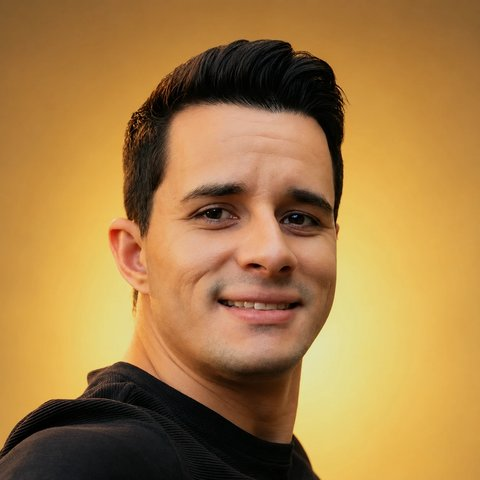
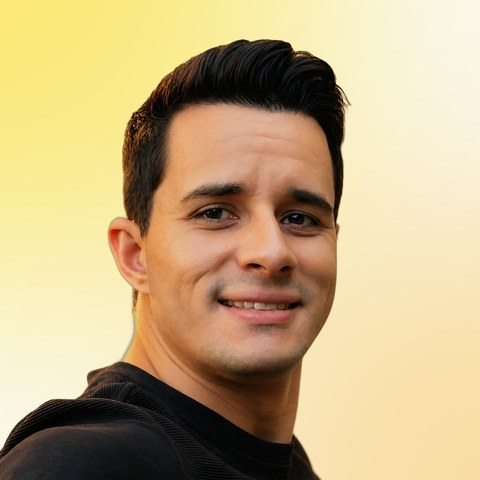
Aplica novo design: visual minimalista com blur, fotos por tema e melhorias no Início e no Mídia Kit

diff --git a/index.html b/index.html
@@ -14,6 +14,8 @@
 <link rel="apple-touch-icon" href="img/apple-touch-icon.png">
 <meta name="theme-color" content="#060404">
 <link rel="stylesheet" href="css/style.css?v=18">
+<link rel="stylesheet" href="css/mini3.css?v=1">
+<link rel="stylesheet" href="css/melhorias.css?v=1">
 <script>try{if(localStorage.getItem("eb-theme")==="dark")document.documentElement.setAttribute("data-theme","dark");}catch(e){}</script>
 </head>
 <body>
@@ -110,7 +112,8 @@
 </main>
 
 <script type="application/json" id="fallback">{"generatedAt": "2026-11-02T04:10:00Z", "periodFrom": "2026-08-04", "periodTo": "2026-11-02", "totals": {"followers": 22543, "views90d": 2884359}, "tiktok": {"followers": 18560, "totalLikes": 144309, "posts": 89, "views": 2614908, "median": 5762, "mean": 29381, "er": 0.03797, "over100k": 8, "likes": 82375, "comments": 2901, "shares": 14025}, "instagram": {"followers": 3446, "mediaCount": 94, "posts": 68, "views": 175288, "median": 1798, "mean": 2578, "er": 0.03919, "saves": 2098, "reach30d": 29151}, "youtube": {"followers": 537, "netSubs90d": 267, "videos": 82, "views": 94163, "median": 1464, "mean": 1724, "er": 0.02937, "watchHours": 644}, "audience": {"male": {"tiktok": 0.74, "instagram": 0.716, "youtube": 0.786}, "age25_54": {"tiktok": 0.826, "instagram": 0.727, "youtube": 0.674}, "brazil": {"tiktok": 0.822, "instagram": 0.949, "youtube": 0.98}, "ages": {"tiktok": [0, 0.075, 0.242, 0.338, 0.246, 0.099], "instagram": [0.034, 0.053, 0.201, 0.285, 0.241, 0.188], "youtube": [0.192, 0.088, 0.271, 0.252, 0.151, 0.045]}}, "top": {"tiktok": [{"pt": "2 configurações do Motorola que gastam bateria à toa", "en": "2 Motorola settings that quietly drain your battery", "url": "https://www.tiktok.com/@eduardobastiertech/video/7679252136894467349", "views": 228872}, {"pt": "3 coisas secretas para ativar no Motorola", "en": "3 secret things to turn on in your Motorola", "url": "https://www.tiktok.com/@eduardobastiertech/video/7669963648919440661", "views": 211866}, {"pt": "Esconder apps de banco com a Pasta Segura do Moto", "en": "Hide banking apps with Moto's Secure Folder", "url": "https://www.tiktok.com/@eduardobastiertech/video/7670321926644059413", "views": 185355}, {"pt": "Baixar vídeo do TikTok sem marca d'água (TikTokIO)", "en": "Download TikTok videos without a watermark (TikTokIO)", "url": "https://www.tiktok.com/@eduardobastiertech/video/7685499006809771284", "views": 170604, "shares": 2699, "sponsored": true}], "instagram": [{"pt": "Prompts do ChatGPT para imagens sem cara de IA", "en": "ChatGPT prompts for images that don't look like AI", "url": "https://www.instagram.com/reel/DdtTefLh-nN/", "views": 12109, "saves": 315}, {"pt": "Som ambiente: o celular vira aparelho auditivo", "en": "Ambient sound: your phone as a hearing aid", "url": "https://www.instagram.com/reel/DcKHO9GsYoD/", "views": 10560, "saves": 220}, {"pt": "Códigos secretos do ChatGPT para fotos, parte 2", "en": "Secret ChatGPT photo-editing codes, part 2", "url": "https://www.instagram.com/reel/DdC1P0UQElz/", "views": 9520}, {"pt": "Melhores ajustes da câmera do Samsung", "en": "Best Samsung camera settings", "url": "https://www.instagram.com/reel/Ddqup_lhJHz/", "views": 8806, "saves": 189}], "youtube": [{"pt": "Esconda seus apps de banco no Motorola (Pasta Segura)", "en": "Hide your banking apps on Motorola (Secure Folder)", "url": "https://www.youtube.com/watch?v=OuvHzWsNPzo", "views": 8428}, {"pt": "Segredos da One UI 9 que a Samsung não te contou", "en": "One UI 9 secrets Samsung didn't tell you", "url": "https://www.youtube.com/watch?v=s-ms14feCLU", "views": 5606}, {"pt": "Bloqueie apps específicos com senha no Motorola", "en": "Lock specific apps with a password on Motorola", "url": "https://www.youtube.com/watch?v=uVKH4MTG-4Y", "views": 4070}, {"pt": "O código secreto do ChatGPT para imagens", "en": "The secret ChatGPT code for images", "url": "https://www.youtube.com/watch?v=Njj1RR3fpyU", "views": 3974}]}, "profile": {"photo": "img/foto.jpg", "milestone": {"pt": "10 mil seguidores no TikTok em 3 meses, só no orgânico", "en": "10K TikTok followers in 3 months, all organic"}}, "caseStudy": {"brand": "TikTokIO", "url": "https://www.tiktok.com/@eduardobastiertech/video/7685499006809771284", "goal": {"pt": "Divulgar um site para baixar vídeos do TikTok sem marca d'água.", "en": "Promote a website for downloading TikTok videos without a watermark."}, "delivery": {"pt": "1 vídeo no TikTok mostrando o passo a passo no celular.", "en": "1 TikTok video showing the step-by-step on a phone."}, "views": 170604, "reach": 116858, "likes": 4714, "comments": 138, "shares": 2699}, "packages": [{"pt": "Publi", "en": "Sponsored post", "dpt": "Post patrocinado no feed, Reels ou TikTok, com o produto dentro do meu formato de dicas.", "den": "A sponsored feed post, Reel or TikTok, with the product inside my usual tips format.", "platforms": ["TikTok", "Instagram"], "priceFrom": null}, {"pt": "Stories patrocinados", "en": "Sponsored stories", "dpt": "Sequência de 3 a 5 stories com link ou cupom. Ideal para lançamentos e promoções.", "den": "A sequence of 3 to 5 stories with a link or coupon. Great for launches and promotions.", "platforms": ["Instagram"], "priceFrom": null}, {"pt": "Vídeo dedicado", "en": "Dedicated video", "dpt": "Um vídeo curto inteiro sobre o produto, mostrando o uso no dia a dia.", "den": "A full short video about the product, showing it in everyday use.", "platforms": ["TikTok", "Reels", "Shorts"], "priceFrom": null}, {"pt": "Collab", "en": "Collab", "dpt": "Post publicado junto com a marca, aparecendo nos dois perfis e somando o alcance.", "den": "A post published together with the brand, shown on both profiles to combine reach.", "platforms": ["Instagram", "TikTok"], "priceFrom": null}, {"pt": "Vídeo longo", "en": "Long-form video", "dpt": "Review ou unboxing no YouTube, com testes e opinião sincera.", "den": "A YouTube review or unboxing, with tests and an honest opinion.", "platforms": ["YouTube"], "priceFrom": null}], "terms": {"responseHours": null, "deliveryDays": null}, "testimonials": [], "extras": [{"pt": "Pacote nas 3 redes", "en": "3-platform bundle"}, {"pt": "Licença para anúncios (Spark Ads / parceria paga)", "en": "Ad usage license (Spark Ads / paid partnership)"}]}</script>
-<script src="js/app.js?v=17" defer></script>
+<script src="js/app.js?v=19" defer></script>
 
+<script src="js/melhorias.js?v=1"></script>
 </body>
 </html>

diff --git a/css/mini3.css b/css/mini3.css
@@ -1,0 +1,57 @@
+/* Visual do mockup mini3 aplicado ao site atual. Só CSS: o HTML não muda. */
+@import url("https://fonts.googleapis.com/css2?family=Geist:wght@400;500;600&display=swap");
+:root{--bg:#FAFAF9;--surface:#FFFFFF;--ink:#0A0A0A;--muted:#737373;--line:#EAEAE8;--track:#EFEFEC;--accent:#0A0A0A;--hl:#FBD905;--bar:#F7B835;
+ --f-display:"Geist",sans-serif;--f-body:"Geist",sans-serif;--f-mono:"Geist",sans-serif;--r:14px}
+:root[data-theme="dark"]{--bg:#0E0E0F;--surface:#151517;--ink:#EDEDEC;--muted:#8A8A8A;--line:#232325;--track:#232325;--accent:#EDEDEC}
+body{font-size:15px;-webkit-font-smoothing:antialiased;
+ background:radial-gradient(min(720px,100vw) 380px at 50% -160px,color-mix(in srgb,#FBD905 22%,transparent),transparent 70%) no-repeat,var(--bg)}
+:root[data-theme="dark"] body{background:radial-gradient(min(720px,100vw) 380px at 50% -160px,color-mix(in srgb,#FBD905 10%,transparent),transparent 70%) no-repeat,var(--bg)}
+h1,h2,h3{font-weight:600;letter-spacing:-.03em}
+.eyebrow,.handle,.t,.fmt-n,.mp-cap{text-transform:none!important;letter-spacing:0!important;font-weight:500}
+/* menu */
+.nav{background:color-mix(in srgb,var(--bg) 85%,transparent)!important;border-bottom:0!important}
+.menu{background:var(--surface);border:1px solid var(--line);border-radius:11px;padding:3px;gap:2px}
+.menu a{border-radius:8px!important;padding:5px 14px!important;font-size:13px!important}
+.seg-ctl{border-radius:11px!important;border-color:var(--line)!important}.seg-ctl button{border-radius:8px!important;font-family:var(--f-body)!important}
+.mbtn{border-color:var(--line)!important;border-radius:10px!important;background:var(--surface)!important}
+/* topo */
+.hero{border-bottom:0!important;padding-bottom:8px!important}
+.hero .avatar,.avatar{border:0!important;box-shadow:0 0 0 4px var(--bg),0 0 0 5px var(--line)}
+.name{font-weight:600!important;letter-spacing:-.04em!important}
+.name span{font-weight:400!important;color:var(--muted)}
+.pitch mark{background:none!important;color:var(--ink)!important;padding:0!important;font-weight:500}
+.pitch{color:var(--muted)}
+.mile{border:1px solid var(--line)!important;background:var(--surface);border-radius:10px;padding:6px 12px!important;color:var(--muted);font-size:13px!important}
+.big-n{font-weight:600!important;letter-spacing:-.04em!important}
+/* botões */
+.btn-solid,.btn-line,.btn,.btn-pdf{border-radius:10px!important;font-weight:500!important;font-family:var(--f-body)!important;box-shadow:none!important}
+.btn-solid{background:var(--ink)!important;color:var(--bg)!important;border:1px solid var(--ink)!important}
+.btn-line,.btn.ghost{background:var(--surface)!important;color:var(--ink)!important;border:1px solid var(--line)!important}
+/* seções: título pequeno com nota à direita */
+.sec{gap:12px!important}
+.sec-h{align-items:baseline!important;padding:0 4px}
+.sec-h h2{font-size:13px!important;font-weight:600;letter-spacing:0}
+.sec-note{font-size:13px!important}
+/* cards */
+.box{border-radius:var(--r)!important;border:1px solid var(--line)!important;background:var(--surface);box-shadow:none}
+.lk{padding:14px 16px!important}.lk .ic{width:36px!important;height:36px!important;border-radius:10px!important}.lk .ic svg{width:18px!important;height:18px!important}
+.lk h3{font-size:15px!important;font-weight:500}.lk .tx>span{font-size:13px!important}.lk .go{font-size:14px!important}
+.links{gap:10px!important}.socials{gap:10px!important}
+.soc .plat-h h3{font-size:15px;font-weight:500}.soc .plat-big{font-size:30px!important;font-weight:600!important}
+.soc .open{text-decoration-color:var(--line)!important;text-decoration-thickness:1px!important;font-size:13px!important}
+.lk:hover,.soc:hover{border-color:color-mix(in srgb,var(--ink) 25%,var(--line))!important}
+.study .badge{border-radius:10px!important;width:48px!important;height:48px!important;font-size:18px!important}
+.cta-mk{border-left:1px solid var(--line)!important}
+.case{border-left:1px solid var(--line)!important}
+.contact{background:var(--surface)!important;color:var(--ink)!important;border:1px solid var(--line);border-radius:var(--r)!important}
+.contact h2{font-size:clamp(24px,3vw,32px)!important}.contact p{color:var(--muted);opacity:1!important}
+.contact .btn{background:var(--ink)!important;color:var(--bg)!important;border:1px solid var(--ink)!important}
+.contact .btn.ghost{background:var(--surface)!important;color:var(--ink)!important;border-color:var(--line)!important}
+.contact .mail{color:var(--ink)}
+/* mídia kit */
+.plat-big{font-weight:600!important;letter-spacing:-.04em!important}
+.case-kpis b,.why b{font-weight:600!important}
+.trk,.fill,.segs{border-radius:999px!important}.fill{background:var(--bar)!important}
+.fmt-tags span{background:var(--surface)!important;border:1px solid var(--line);color:var(--muted)!important;font-family:var(--f-body)!important}
+.dot{background:#22c55e!important;box-shadow:none!important;animation:none!important}
+.chip,.chips span,.extras span{border-color:var(--line)!important;border-radius:8px!important;font-family:var(--f-body)!important}

diff --git a/css/melhorias.css b/css/melhorias.css
@@ -1,0 +1,30 @@
+/* 1. uma fonte */ body,*{font-family:"Geist",sans-serif!important}
+/* 3. topo: nome protagonista, número vira faixa */
+#view-home .hero{grid-template-columns:1.2fr 1fr!important;align-items:end!important}@media(max-width:860px){#view-home .hero{grid-template-columns:1fr!important}}
+#view-home .hero-side{align-items:flex-start!important;text-align:left!important;width:100%}
+#view-home .hero-stat{display:none!important}
+.strip{display:grid;grid-template-columns:repeat(3,1fr);border:1px solid var(--line);border-radius:14px;background:var(--surface);width:100%;}
+.strip div{padding:14px 18px}.strip div+div{border-left:1px solid var(--line)}
+.strip b{display:block;font-size:22px;font-weight:600;letter-spacing:-.03em}.strip small{color:var(--muted);font-size:13px}
+#view-home .hero-btns{justify-content:flex-start!important}
+#view-home .hero .name{font-size:clamp(36px,6vw,64px)!important}
+/* 4. grupos como linhas */
+.links{grid-template-columns:1fr!important;gap:0!important;border:1px solid var(--line);border-radius:14px;overflow:hidden;background:var(--surface)}
+.links .lk{border:0!important;border-radius:0!important}.links .lk+.lk{border-top:1px solid var(--line)!important}
+/* 5. início mais curto */
+#view-home>.sec:nth-of-type(3),#view-home>.sec:nth-of-type(4){display:none!important}
+/* 6. abas do mídia kit */
+.mk-tabs{position:sticky;top:64px;z-index:9;display:flex;gap:2px;background:var(--surface);border:1px solid var(--line);border-radius:11px;padding:3px;width:fit-content;max-width:100%;overflow-x:auto}
+.mk-tabs a{padding:6px 14px;border-radius:8px;font-size:13px;font-weight:500;color:var(--muted);text-decoration:none;white-space:nowrap}
+.mk-tabs a.on{background:var(--ink);color:var(--bg)}
+@media(max-width:600px){.strip b{font-size:18px}.strip div{padding:12px}}
+/* blur: manchas desfocadas no fundo + cards de vidro fosco */
+body::before,body::after{content:"";position:fixed;z-index:-1;border-radius:50%;filter:blur(90px);pointer-events:none}
+body::before{width:46vw;height:46vw;max-width:620px;max-height:620px;background:#FBD905;opacity:.35;top:-12vw;left:-10vw}
+body::after{width:40vw;height:40vw;max-width:540px;max-height:540px;background:#F7B835;opacity:.25;bottom:-10vw;right:-8vw}
+:root[data-theme="dark"] body::before{opacity:.14}:root[data-theme="dark"] body::after{opacity:.10}
+body{background:var(--bg)!important;isolation:isolate}
+.box,.links,.strip,.menu,.seg-ctl,.mk-tabs,.contact,.mile,.btn-line{background:color-mix(in srgb,var(--surface) 62%,transparent)!important;backdrop-filter:blur(18px) saturate(1.4);-webkit-backdrop-filter:blur(18px) saturate(1.4)}
+.links .lk{background:transparent!important;backdrop-filter:none}
+.nav{background:color-mix(in srgb,var(--bg) 55%,transparent)!important;backdrop-filter:blur(20px) saturate(1.5)!important}
+.brand img,.avatar.sm,.contact .avatar{border:0!important;box-shadow:0 0 0 2px var(--bg),0 0 0 3px var(--line)!important}:root:not([data-theme="dark"]) .brand img,:root:not([data-theme="dark"]) .contact .avatar{box-shadow:0 0 0 2px #fff,0 0 0 3px var(--line)!important}

diff --git a/js/app.js b/js/app.js
@@ -12,7 +12,7 @@ pt:{locale:"pt-BR",
  pkH:"Formatos de parceria",pkNote:"Escolha um formato ou combine vários. Valores sob consulta.",extrasL:"Extras",from:"a partir de",onReq:"sob consulta",
  resp:"Respondo em até {n} h",deliv:"Entrega em até {n} dias após receber o produto",
  testiH:"O que dizem as marcas",
-updated:"Dados ao vivo · atualizado {ago}",pdf:"Baixar em PDF",pdfBusy:"Gerando PDF…",pdfErr:"Não foi possível gerar o PDF",pdfOff:"Sem internet: tente de novo",light:"Claro",dark:"Escuro",
+updated:"Atualizado em 2 de novembro",pdf:"Baixar em PDF",pdfBusy:"Gerando PDF…",pdfErr:"Não foi possível gerar o PDF",pdfOff:"Sem internet: tente de novo",light:"Claro",dark:"Escuro",
  role:"Tech · smartphones, apps e IA",
  pitch:"Ensino a <mark>usar melhor o celular</mark> que as pessoas já têm: funções escondidas de smartphone, dicas de aplicativos, reviews diretos e truques de IA.",
  bigL:"seguidores somados no TikTok, Instagram e YouTube, em português e a maioria no Brasil.",
@@ -46,7 +46,7 @@ en:{locale:"en-US",
  pkH:"Partnership formats",pkNote:"Pick one format or combine several. Rates on request.",extrasL:"Extras",from:"from",onReq:"on request",
  resp:"I reply within {n} h",deliv:"Delivery within {n} days of receiving the product",
  testiH:"What brands say",
-updated:"Live data · updated {ago}",pdf:"Download as PDF",pdfBusy:"Generating PDF…",pdfErr:"Could not generate the PDF",pdfOff:"No internet: try again",light:"Light",dark:"Dark",
+updated:"Updated on November 2",pdf:"Download as PDF",pdfBusy:"Generating PDF…",pdfErr:"Could not generate the PDF",pdfOff:"No internet: try again",light:"Light",dark:"Dark",
  role:"Tech · smartphones, apps and AI",
  pitch:"I help people <mark>get more out of the phone</mark> they already own: hidden smartphone features, app tips, straight-talking reviews and AI tricks.",
  bigL:"combined followers across TikTok, Instagram and YouTube, a Portuguese-speaking audience, mostly in Brazil.",

diff --git a/js/melhorias.js b/js/melhorias.js
@@ -1,0 +1,14 @@
+document.addEventListener('DOMContentLoaded',()=>setTimeout(()=>{
+ const side=document.querySelector('#view-home .hero-side');
+ if(side&&!side.querySelector('.strip')){const s=document.createElement('div');s.className='strip';
+  const en=(document.documentElement.lang||'').startsWith('en');const L=en?'en-US':'pt-BR';
+  const f=n=>n>=1e6?(n/1e6).toLocaleString(L,{maximumFractionDigits:1})+(en?'M':' mi'):n>=1e3?(n/1e3).toLocaleString(L,{maximumFractionDigits:1})+(en?'K':' mil'):String(n);
+  const draw=d=>{s.innerHTML='<div><b>'+f(d.totals.followers)+'</b><small>'+(en?'followers':'seguidores')+'</small></div><div><b>'+f(d.totals.views90d)+'</b><small>'+(en?'views in 90 days':'views em 90 dias')+'</small></div><div><b>'+(d.tiktok.er*100).toLocaleString(L,{maximumFractionDigits:1})+'%</b><small>'+(en?'engagement':'engajamento')+'</small></div>'};
+  draw({totals:{followers:22543,views90d:2884359},tiktok:{er:.03797}});side.prepend(s);
+  fetch('dados/data.json').then(r=>r.json()).then(draw).catch(()=>{})}
+ const mk=document.getElementById('view-mk');
+ if(mk&&!mk.querySelector('.mk-tabs')){const t=document.createElement('nav');t.className='mk-tabs';
+  t.innerHTML='<a class="on">Números</a><a>Público</a><a>Conteúdos</a><a>Formatos</a><a>Contato</a>';mk.querySelector('.bar-top').after(t)}
+},400));
+(function(){const sw=()=>{const d=document.documentElement.getAttribute('data-theme')==='dark';document.querySelectorAll('img[src*="img/foto"]').forEach(i=>{i.src=d?'img/foto-escuro.jpg':'img/foto.jpg'})};
+new MutationObserver(sw).observe(document.documentElement,{attributes:true,attributeFilter:['data-theme']});document.addEventListener('DOMContentLoaded',sw)})();
